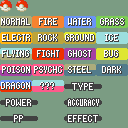
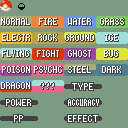
Modified Pokedex Numerical Order Screen

Changed region(s): [[0.125, 0.0, 0.2188, 0.0938]]

diff --git a/src/pokedex_screen.c b/src/pokedex_screen.c
@@ -97,6 +97,7 @@ struct PokedexCategoryPage
 EWRAM_DATA static struct PokedexScreenData * sPokedexScreenData = NULL;
 
 static void Task_PokedexScreen(u8 taskId);
+static void DexScreen_ShowPokeDex80Label(void);
 static void DexScreen_InitGfxForTopMenu(void);
 static void Task_DexScreen_NumericalOrder(u8 taskId);
 static void DexScreen_InitGfxForNumericalOrderList(void);
@@ -277,6 +278,15 @@ static const struct WindowTemplate sWindowTemplates[] = {
         .height = 2,
         .paletteNum = 15,
         .baseBlock = 0x0388
+    },
+    {
+        .bg = 0,
+        .tilemapLeft = 9,
+        .tilemapTop = 0,
+        .width = 12,
+        .height = 2,
+        .paletteNum = 3,
+        .baseBlock = 0
     },
     {
         .bg = 255,
@@ -580,11 +590,11 @@ static const struct ListMenuWindowRect sListMenuRects_OrderedList[] = {
 
 static const struct ScrollArrowsTemplate sDexOrderScrollArrowsTemplate = {
     .firstArrowType = 2,
-    .firstX = 200,
-    .firstY = 19,
+    .firstX = 211,
+    .firstY = 21,
     .secondArrowType = 3,
-    .secondX = 200,
-    .secondY = 141,
+    .secondX = 211,
+    .secondY = 137,
     .fullyUpThreshold = 0,
     .fullyDownThreshold = 0,
     .tileTag = 2000,
@@ -1086,9 +1096,9 @@ static void Task_PokedexScreen(u8 taskId)
     case 5:
         ListMenuGetScrollAndRow(sPokedexScreenData->modeSelectListMenuId, &sPokedexScreenData->modeSelectCursorPosBak, NULL);
         if (IsNationalPokedexEnabled())
-            sPokedexScreenData->scrollArrowsTaskId = AddScrollIndicatorArrowPair(&sScrollArrowsTemplate_NatDex, &sPokedexScreenData->modeSelectCursorPosBak);
+            sPokedexScreenData->scrollArrowsTaskId = AddScrollIndicatorDexArrowPair(&sScrollArrowsTemplate_NatDex, &sPokedexScreenData->modeSelectCursorPosBak);
         else
-            sPokedexScreenData->scrollArrowsTaskId = AddScrollIndicatorArrowPair(&sScrollArrowsTemplate_KantoDex, &sPokedexScreenData->modeSelectCursorPosBak);
+            sPokedexScreenData->scrollArrowsTaskId = AddScrollIndicatorDexArrowPair(&sScrollArrowsTemplate_KantoDex, &sPokedexScreenData->modeSelectCursorPosBak);
         sPokedexScreenData->state = 6;
         break;
     case 6:
@@ -1177,12 +1187,35 @@ static void Task_PokedexScreen(u8 taskId)
     }
 }
 
+static void DexScreen_ShowPokeDex80Label(void)
+{
+    u16 length = GetStringWidth(FONT_NORMAL, gText_PokemonListNoColor, 0);
+    FillWindowPixelBuffer(2, PIXEL_FILL(0));
+    DexScreen_AddTextPrinterParameterized(2, FONT_NORMAL, gText_PokemonListNoColor,
+        (((240 / 30) * 12) - length) / 2, 0, 0);
+    PutWindowTilemap(2);
+    CopyWindowToVram(2, COPYWIN_FULL);
+}
+
 static void DexScreen_InitGfxForTopMenu(void)
 {
     struct ListMenuTemplate listMenuTemplate;
-    FillBgTilemapBufferRect(3, 0x00E, 0, 0, 30, 20, 0);
+    int row, col;
+    u16 *bg3buf = GetBgTilemapBuffer(3);
+    // Use dex entry border rows for top/bottom (avoids black borders)
+    for (col = 0; col < 32; col++)
+    {
+        bg3buf[0 * 32 + col] = sDexEntryTilemap[0 * 32 + col];
+        bg3buf[1 * 32 + col] = sDexEntryTilemap[1 * 32 + col];
+        bg3buf[18 * 32 + col] = sDexEntryTilemap[18 * 32 + col];
+        bg3buf[19 * 32 + col] = sDexEntryTilemap[19 * 32 + col];
+    }
+    for (row = 2; row < 18; row++)
+        for (col = 0; col < 32; col++)
+            bg3buf[row * 32 + col] = 0x00E;
     FillBgTilemapBufferRect(2, 0x000, 0, 0, 30, 20, 17);
     FillBgTilemapBufferRect(1, 0x000, 0, 0, 30, 20, 17);
+    FillBgTilemapBufferRect_Palette0(0, 0, 0, 0, 30, 20);
     sPokedexScreenData->modeSelectWindowId = AddWindow(&sWindowTemplate_ModeSelect);
     sPokedexScreenData->selectionIconWindowId = AddWindow(&sWindowTemplate_SelectionIcon);
     sPokedexScreenData->dexCountsWindowId = AddWindow(&sWindowTemplate_DexCounts);
@@ -1218,12 +1251,11 @@ static void DexScreen_InitGfxForTopMenu(void)
     DexScreen_PrintStringWithAlignment(gText_PokedexTableOfContents, TEXT_CENTER);
     FillWindowPixelBuffer(1, PIXEL_FILL(15));
     DexScreen_PrintControlInfo(gText_PickOK);
-    PutWindowTilemap(0);
     CopyWindowToVram(0, COPYWIN_GFX);
-    PutWindowTilemap(1);
     CopyWindowToVram(1, COPYWIN_GFX);
     PutWindowTilemap(sPokedexScreenData->dexCountsWindowId);
     CopyWindowToVram(sPokedexScreenData->dexCountsWindowId, COPYWIN_GFX);
+    DexScreen_ShowPokeDex80Label();
 }
 
 static void MoveCursorFunc_DexModeSelect(s32 itemIndex, bool8 onInit, struct ListMenu *list)
@@ -1344,6 +1376,7 @@ static void DexScreen_InitGfxForNumericalOrderList(void)
     DexScreen_PrintControlInfo(gText_PickOKExit);
     CopyWindowToVram(0, COPYWIN_GFX);
     CopyWindowToVram(1, COPYWIN_GFX);
+    DexScreen_ShowPokeDex80Label();
 }
 
 static void Task_DexScreen_CharacteristicOrder(u8 taskId)
@@ -1433,6 +1466,7 @@ static void DexScreen_CreateCharacteristicListMenu(void)
     DexScreen_PrintControlInfo(gText_PickOKExit);
     CopyWindowToVram(0, COPYWIN_GFX);
     CopyWindowToVram(1, COPYWIN_GFX);
+    DexScreen_ShowPokeDex80Label();
 }
 
 static u16 DexScreen_CountMonsInOrderedList(u8 orderIdx)
@@ -1654,7 +1688,7 @@ static u8 DexScreen_CreateDexOrderScrollArrows(void)
         template.fullyDownThreshold = sPokedexScreenData->orderedDexCount - sListMenuTemplate_OrderedListMenu.maxShowed;
     else
         template.fullyDownThreshold = 0;
-    return AddScrollIndicatorArrowPair(&template, &sPokedexScreenData->modeSelectCursorPosBak);
+    return AddScrollIndicatorDexArrowPair(&template, &sPokedexScreenData->modeSelectCursorPosBak);
 }
 
 struct PokedexListItem
@@ -1683,7 +1717,7 @@ static void DexScreen_ConvertTypeBadgePaletteToLCD(u16 *palette, u16 count)
         u16 luminance = (77 * r + 151 * g + 28 * b) / 256;
         
         // Map white (high luminance) to black, everything else to LCD green
-        // LCD green: RGB(81, 80, 60) in 5-bit = (10, 10, 7)
+        // LCD green: RGB(81, 80, 60) in 5-bit = (17, 21, 2)
         if (luminance >= 28)  // Threshold for white/very light colors
         {
             // White text becomes black
@@ -1691,8 +1725,8 @@ static void DexScreen_ConvertTypeBadgePaletteToLCD(u16 *palette, u16 count)
         }
         else
         {
-            // Everything else becomes LCD green: RGB 81,80,60 = (10, 10, 7)
-            palette[i] = RGB(10, 10, 7);
+            // Everything else becomes LCD green: RGB 139,172,15 = (17, 21, 2)
+            palette[i] = RGB(17, 21, 2);
         }
     }
 }
@@ -1731,7 +1765,7 @@ static void ItemPrintFunc_OrderedListMenu(u8 windowId, u32 itemId, u8 y)
     DexScreen_PrintMonDexNo(sPokedexScreenData->numericalOrderWindowId, FONT_SMALL, species, 13, y);
     if (caught)
     {
-        BlitMenuInfoIcon(sPokedexScreenData->numericalOrderWindowId, MENU_INFO_ICON_CAUGHT, 0x28, y + 1);
+        BlitBitmapRectToWindow(sPokedexScreenData->numericalOrderWindowId, gMenuInfoElements_Gfx, 16, 0, 128, 128, 0x28, y + 1, 12, 12);
         type1 = gSpeciesInfo[species].types[0];
         BlitMenuInfoIcon(sPokedexScreenData->numericalOrderWindowId, type1 + 1, 0x78, y + 1);
         if (type1 != gSpeciesInfo[species].types[1])
@@ -1775,6 +1809,7 @@ static void Task_DexScreen_CategorySubmenu(u8 taskId)
         CopyBgTilemapBufferToVram(3);
         CopyBgTilemapBufferToVram(2);
         CopyBgTilemapBufferToVram(1);
+        CopyBgTilemapBufferToVram(0);
         DexScreen_CreateCategoryPageSelectionCursor(0xFF);
         sPokedexScreenData->state = 3;
         break;
@@ -2051,7 +2086,7 @@ static u8 DexScreen_CreateCategoryMenuScrollArrows(void)
     template.fullyUpThreshold = sPokedexScreenData->firstPageInCategory;
     template.fullyDownThreshold = sPokedexScreenData->lastPageInCategory - 1;
     sPokedexScreenData->modeSelectCursorPosBak = sPokedexScreenData->pageNum;
-    return AddScrollIndicatorArrowPair(&template, &sPokedexScreenData->modeSelectCursorPosBak);
+    return AddScrollIndicatorDexArrowPair(&template, &sPokedexScreenData->modeSelectCursorPosBak);
 }
 
 /*
@@ -2384,7 +2419,7 @@ static u32 DexScreen_GetDefaultPersonality(int species)
     }
 }
 
-// Convert a palette to LCD monochrome (light = RGB(81,80,60), dark = black)
+// Convert a palette to LCD monochrome (light = RGB(139,172,15), dark = black)
 static void ConvertPaletteToLCDMonochrome(u16 *palette, u16 count)
 {
     u16 i;
@@ -2403,13 +2438,13 @@ static void ConvertPaletteToLCDMonochrome(u16 *palette, u16 count)
         u16 luminance = (77 * r + 151 * g + 28 * b) / 256;
         
         // Map to LCD colors based on luminance threshold
-        // Light color: RGB(81, 80, 60) in 5-bit = (10, 10, 7)
+        // Light color: RGB(81, 80, 60) in 5-bit = (17, 21, 2)
         // Dark color: RGB(0, 0, 0) = black
         if (luminance >= 17)  // Threshold approximately mid-range
         {
-            // Light LCD color: RGB 81,80,60 converted to GBA 5-bit format
-            // 81/8 = 10, 80/8 = 10, 60/8 = 7
-            palette[i] = RGB(10, 10, 7);
+            // Light LCD color: RGB 139,172,15 converted to GBA 5-bit format
+            // 81/8 = 17, 80/8 = 21, 60/8 = 2
+            palette[i] = RGB(17, 21, 2);
         }
         else
         {
@@ -2742,9 +2777,22 @@ static void DexScreen_PrintCategoryPageNumbers(u8 windowId, u16 currentPage, u16
 
 static bool8 DexScreen_CreateCategoryListGfx(bool8 justRegistered)
 {
-    FillBgTilemapBufferRect_Palette0(3, 2, 0, 0, 30, 20);
+    int row, col;
+    u16 *bg3buf = GetBgTilemapBuffer(3);
+    // Use dex entry border rows for top/bottom (matches dex entry look, avoids black borders)
+    for (col = 0; col < 32; col++)
+    {
+        bg3buf[0 * 32 + col] = sDexEntryTilemap[0 * 32 + col];
+        bg3buf[1 * 32 + col] = sDexEntryTilemap[1 * 32 + col];
+        bg3buf[18 * 32 + col] = sDexEntryTilemap[18 * 32 + col];
+        bg3buf[19 * 32 + col] = sDexEntryTilemap[19 * 32 + col];
+    }
+    for (row = 2; row < 18; row++)
+        for (col = 0; col < 32; col++)
+            bg3buf[row * 32 + col] = 2;
     FillBgTilemapBufferRect_Palette0(2, 0, 0, 0, 32, 20);
     FillBgTilemapBufferRect_Palette0(1, 0, 0, 0, 32, 20);
+    FillBgTilemapBufferRect_Palette0(0, 0, 0, 0, 30, 20);
     DexScreen_CreateCategoryPageSpeciesList(sPokedexScreenData->category, sPokedexScreenData->pageNum);
     FillWindowPixelBuffer(0, PIXEL_FILL(15));
     if (justRegistered)
@@ -2769,6 +2817,7 @@ static bool8 DexScreen_CreateCategoryListGfx(bool8 justRegistered)
         DexScreen_DrawMonPicInCategoryPage(sPokedexScreenData->pageSpecies[2], 2, sPokedexScreenData->numMonsOnPage);
     if (sPokedexScreenData->pageSpecies[3] != 0xFFFF)
         DexScreen_DrawMonPicInCategoryPage(sPokedexScreenData->pageSpecies[3], 3, sPokedexScreenData->numMonsOnPage);
+    DexScreen_ShowPokeDex80Label();
     return FALSE;
 }
 

diff --git a/src/menu_indicators.c b/src/menu_indicators.c
@@ -45,6 +45,7 @@ struct ScrollIndicatorTemplate
 static EWRAM_DATA struct ScrollArrowsTemplate sTempScrollArrowTemplate = {0};
 
 static void SpriteCallback_ScrollIndicatorArrow(struct Sprite *sprite);
+static void SpriteCallback_ScrollIndicatorArrowStatic(struct Sprite *sprite);
 static void SpriteCallback_RedArrowCursor(struct Sprite *sprite);
 static void Task_ScrollIndicatorArrowPair(u8 taskId);
 static u8 ListMenuAddRedArrowCursorObject(const struct CursorStruct *cursor);
@@ -137,6 +138,17 @@ static const struct SpriteTemplate sSpriteTemplate_ScrollArrowIndicator =
     .images = NULL,
     .affineAnims = gDummySpriteAffineAnimTable,
     .callback = SpriteCallback_ScrollIndicatorArrow,
+};
+
+static const struct SpriteTemplate sSpriteTemplate_ScrollArrowIndicatorStatic =
+{
+    .tileTag = 0,
+    .paletteTag = 0,
+    .oam = &sOamData_ScrollArrowIndicator,
+    .anims = sSpriteAnimTable_ScrollArrowIndicator,
+    .images = NULL,
+    .affineAnims = gDummySpriteAffineAnimTable,
+    .callback = SpriteCallback_ScrollIndicatorArrowStatic,
 };
 
 static const struct Subsprite sSubsprite_RedOutline1 =
@@ -257,6 +269,7 @@ static const struct SpriteTemplate sSpriteTemplate_RedArrowCursor =
 
 static const u16 sRedArrowPal[] = INCBIN_U16("graphics/interface/red_arrow.gbapal");
 static const u32 sRedArrowOtherGfx[] = INCBIN_U32("graphics/interface/red_arrow_other.4bpp.lz");
+static const u32 sRedArrowPokedexGfx[] = INCBIN_U32("graphics/interface/red_arrow_pokedex.4bpp.lz");
 static const u32 sSelectorOutlineGfx[] = INCBIN_U32("graphics/interface/selector_outline.4bpp.lz");
 static const u32 sRedArrowGfx[] = INCBIN_U32("graphics/interface/red_arrow.4bpp.lz");
 
@@ -313,6 +326,30 @@ static u8 AddScrollIndicatorArrowObject(u8 arrowDir, u8 x, u8 y, u16 tileTag, u1
     return spriteId;
 }
 
+static void SpriteCallback_ScrollIndicatorArrowStatic(struct Sprite *sprite)
+{
+    if (sprite->tState == 0)
+    {
+        StartSpriteAnim(sprite, sprite->tAnimNum);
+        sprite->tState++;
+    }
+}
+
+static u8 AddScrollIndicatorArrowObjectStatic(u8 arrowDir, u8 x, u8 y, u16 tileTag, u16 palTag)
+{
+    u8 spriteId;
+    struct SpriteTemplate spriteTemplate;
+
+    spriteTemplate = sSpriteTemplate_ScrollArrowIndicatorStatic;
+    spriteTemplate.tileTag = tileTag;
+    spriteTemplate.paletteTag = palTag;
+    spriteId = CreateSprite(&spriteTemplate, x, y, 0);
+    gSprites[spriteId].invisible = TRUE;
+    gSprites[spriteId].tState = 0;
+    gSprites[spriteId].tAnimNum = sScrollIndicatorTemplates[arrowDir].animNum;
+    return spriteId;
+}
+
 #undef tState
 #undef tAnimNum
 #undef tBounceDir
@@ -361,6 +398,47 @@ u8 AddScrollIndicatorArrowPair(const struct ScrollArrowsTemplate *arrowInfo, u16
     return taskId;
 }
 
+u8 AddScrollIndicatorDexArrowPair(const struct ScrollArrowsTemplate *arrowInfo, u16 *scrollOffset)
+{
+    struct CompressedSpriteSheet spriteSheet;
+    struct SpritePalette spritePal;
+    struct ScrollIndicatorPair *data;
+    u8 taskId;
+
+    spriteSheet.data = sRedArrowPokedexGfx;
+    spriteSheet.size = 0x100;
+    spriteSheet.tag = arrowInfo->tileTag;
+    LoadCompressedSpriteSheet(&spriteSheet);
+    if (arrowInfo->palTag == TAG_NONE)
+    {
+        LoadPalette(sRedArrowPal, OBJ_PLTT_ID(arrowInfo->palNum), sizeof(sRedArrowPal));
+    }
+    else
+    {
+        spritePal.data = sRedArrowPal;
+        spritePal.tag = arrowInfo->palTag;
+        LoadSpritePalette(&spritePal);
+    }
+    taskId = CreateTask(Task_ScrollIndicatorArrowPair, 0);
+    data = (struct ScrollIndicatorPair *)gTasks[taskId].data;
+
+    data->field_0 = 0;
+    data->scrollOffset = scrollOffset;
+    data->fullyUpThreshold = arrowInfo->fullyUpThreshold;
+    data->fullyDownThreshold = arrowInfo->fullyDownThreshold;
+    data->tileTag = arrowInfo->tileTag;
+    data->palTag = arrowInfo->palTag;
+    data->topSpriteId = AddScrollIndicatorArrowObjectStatic(arrowInfo->firstArrowType, arrowInfo->firstX, arrowInfo->firstY, arrowInfo->tileTag, arrowInfo->palTag);
+    data->bottomSpriteId = AddScrollIndicatorArrowObjectStatic(arrowInfo->secondArrowType, arrowInfo->secondX, arrowInfo->secondY, arrowInfo->tileTag, arrowInfo->palTag);
+
+    if (arrowInfo->palTag == TAG_NONE)
+    {
+        gSprites[data->topSpriteId].oam.paletteNum = arrowInfo->palNum;
+        gSprites[data->bottomSpriteId].oam.paletteNum = arrowInfo->palNum;
+    }
+    return taskId;
+}
+
 u8 AddScrollIndicatorArrowPairParameterized(u32 arrowType, s32 commonPos, s32 firstPos, s32 secondPos, s32 fullyDownThreshold, s32 tileTag, s32 palTag, u16 *scrollOffset)
 {
     if (arrowType == SCROLL_ARROW_UP || arrowType == SCROLL_ARROW_DOWN)
@@ -388,6 +466,35 @@ u8 AddScrollIndicatorArrowPairParameterized(u32 arrowType, s32 commonPos, s32 fi
     sTempScrollArrowTemplate.palNum = 0;
 
     return AddScrollIndicatorArrowPair(&sTempScrollArrowTemplate, scrollOffset);
+}
+
+u8 AddScrollIndicatorDexArrowPairParameterized(u32 arrowType, s32 commonPos, s32 firstPos, s32 secondPos, s32 fullyDownThreshold, s32 tileTag, s32 palTag, u16 *scrollOffset)
+{
+    if (arrowType == SCROLL_ARROW_UP || arrowType == SCROLL_ARROW_DOWN)
+    {
+        sTempScrollArrowTemplate.firstArrowType = SCROLL_ARROW_UP;
+        sTempScrollArrowTemplate.firstX = commonPos;
+        sTempScrollArrowTemplate.firstY = firstPos;
+        sTempScrollArrowTemplate.secondArrowType = SCROLL_ARROW_DOWN;
+        sTempScrollArrowTemplate.secondX = commonPos;
+        sTempScrollArrowTemplate.secondY = secondPos;
+    }
+    else
+    {
+        sTempScrollArrowTemplate.firstArrowType = SCROLL_ARROW_LEFT;
+        sTempScrollArrowTemplate.firstX = firstPos;
+        sTempScrollArrowTemplate.firstY = commonPos;
+        sTempScrollArrowTemplate.secondArrowType = SCROLL_ARROW_RIGHT;
+        sTempScrollArrowTemplate.secondX = secondPos;
+        sTempScrollArrowTemplate.secondY = commonPos;
+    }
+    sTempScrollArrowTemplate.fullyUpThreshold = 0;
+    sTempScrollArrowTemplate.fullyDownThreshold = fullyDownThreshold;
+    sTempScrollArrowTemplate.tileTag = tileTag;
+    sTempScrollArrowTemplate.palTag = palTag;
+    sTempScrollArrowTemplate.palNum = 0;
+
+    return AddScrollIndicatorDexArrowPair(&sTempScrollArrowTemplate, scrollOffset);
 }
 
 static void Task_ScrollIndicatorArrowPair(u8 taskId)

diff --git a/include/menu_indicators.h b/include/menu_indicators.h
@@ -30,7 +30,9 @@ struct CursorStruct
 };
 
 u8 AddScrollIndicatorArrowPairParameterized(u32 arrowType, s32 commonPos, s32 firstPos, s32 secondPos, s32 fullyDownThreshold, s32 tileTag, s32 palTag, u16 *scrollOffset);
+u8 AddScrollIndicatorDexArrowPairParameterized(u32 arrowType, s32 commonPos, s32 firstPos, s32 secondPos, s32 fullyDownThreshold, s32 tileTag, s32 palTag, u16 *scrollOffset);
 u8 AddScrollIndicatorArrowPair(const struct ScrollArrowsTemplate * template, u16 * a1);
+u8 AddScrollIndicatorDexArrowPair(const struct ScrollArrowsTemplate *arrowInfo, u16 *scrollOffset);
 void RemoveScrollIndicatorArrowPair(u8);
 u8 ListMenuAddCursorObjectInternal(const struct CursorStruct *cursor, u32 cursorKind);
 u8 ListMenuAddRedOutlineCursorObject(const struct CursorStruct *cursor);
